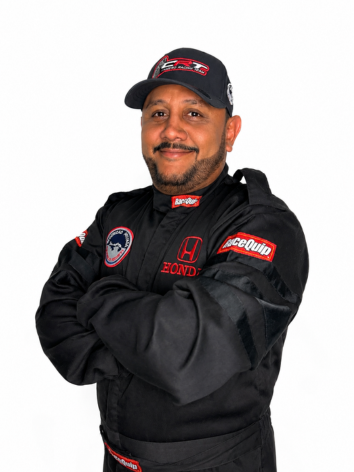
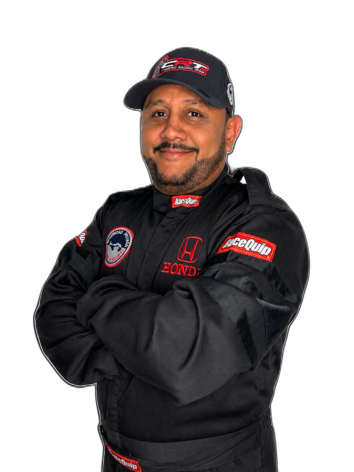
chore: fotos de pilotos, imagenes de eventos, trazados y la tipografia elegida
Los archivos que acompanan a los datos cargados: las fotos de los pilotos
del DragWar, las imagenes de los dos eventos y los trazados que el sistema
movio a public/trazados. Se van las de los pilotos que se eliminaron.

La tipografia_activa.css queda con Saira Condensed, que es la elegida en
Ajustes. El backend la reescribe en cada arranque a partir de la base, asi
que esto es solo el archivo que se instala de entrada.

diff --git a/Casparcg/template/css/tipografia_activa.css b/Casparcg/template/css/tipografia_activa.css
@@ -9,5 +9,5 @@
 ========================================================================== */
 
 :root{
-    --fuente-graficos: "Archivo", "Segoe UI", Arial, sans-serif;
+    --fuente-graficos: "Saira Condensed", "Segoe UI", Arial, sans-serif;
 }
